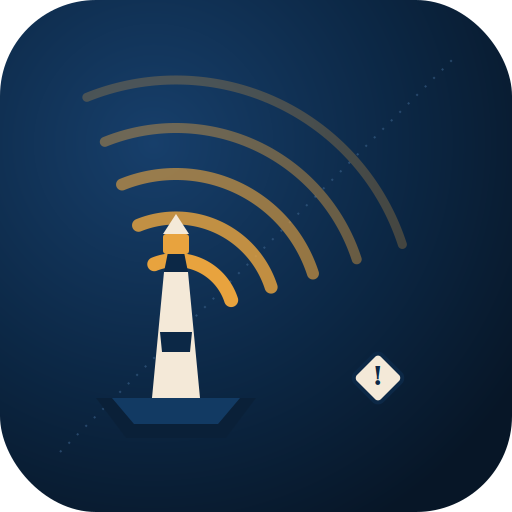
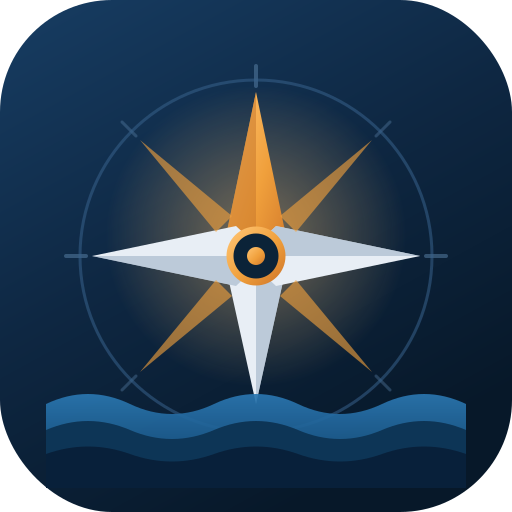
Add files via upload

diff --git a/bot/handlers/start.py b/bot/handlers/start.py
@@ -12,33 +12,45 @@ from ..services.db import Database
 
 logger = logging.getLogger(__name__)
 
-WELCOME = """Привет! Это бот-монитор навигационных предупреждений (NAVAREA/NAVTEX) для моряков.
+WELCOME = """⚓ <b>Watchkeeper</b> — инструменты вахтенного помощника.
 
-Что умеет:
-• следить за выбранными районами NAVAREA и присылать новые предупреждения
-• показывать список действующих предупреждений по команде
-• отвечать на вопросы по судовождению (спроси что угодно текстом)
-• разбирать текст конкретного предупреждения простым языком
+<b>Предупреждения</b>
+Слежу за районами NAVAREA и береговыми предупреждениями, присылаю новые сразу, показываю район на карте контуром, а не точкой.
 
-Важно: бот берёт данные с открытых сайтов официальных координаторов NAVAREA \
-(NGA, UKHO и так далее) и не заменяет получение MSI через штатное оборудование \
-GMDSS/NAVTEX на судне. Это вспомогательный инструмент, а не источник для \
-официального подтверждения безопасности перехода.
+<b>Расчёты мостика</b>
+Расстояние и курс, ETA, запас воды под килём, проседание, CPA/TCPA, точка перекладки руля, якорная стоянка, дифферент, восход и сумерки. Работают без связи — в рейсе это важно.
 
-С чего начать -- /areas, чтобы выбрать районы."""
+<b>Радио</b>
+Станции MF/HF DSC для теста, с отметкой, от каких реально приходит подтверждение.
 
-HELP = """Команды:
+<b>Переход</b>
+Вводишь порты — показываю, какие предупреждения попадают в коридор вдоль маршрута и на каком расстоянии от курса.
 
-/app -- открыть приложение (карта, статистика, планирование рейса)
-/areas -- выбрать районы NAVAREA для отслеживания
-/sources -- официальный источник по каждому из 21 района NAVAREA
-/active -- действующие предупреждения по твоим районам
-/status -- тариф, районы, лимиты
-/subscribe -- оформить Premium
-/cancel_subscription -- отключить автопродление Premium
+Всё это удобнее в приложении — кнопка слева от поля ввода или /app.
 
-Просто напиши текстом вопрос по судовождению, погоде, MSI и так далее -- отвечу через Claude."""
+Важно: данные справочные. Официальный источник — штатное оборудование GMDSS/NAVTEX, ECDIS и судовые пособия. Решение принимает судоводитель."""
 
+HELP = """<b>Watchkeeper</b> — что умеет:
+
+<b>Приложение</b>
+/app — открыть целиком: карта, расчёты, радио, переход
+/tools — сразу к расчётам мостика
+/radio — станции MF/HF DSC для теста
+/voyage — проверить маршрут между портами
+/chart — карта предупреждений
+
+<b>Предупреждения</b>
+/areas — выбрать районы для отслеживания
+/active — что действует сейчас
+/sources — откуда берутся данные по каждому району
+/explain — разобрать текст предупреждения простым языком
+
+<b>Прочее</b>
+/status — тариф, районы, лимиты
+/subscribe — оформить Premium
+/cancel_subscription — отключить автопродление
+
+Можно просто написать вопрос текстом — отвечу по судовождению, погоде, формальностям."""
 
 async def cmd_start(update: Update, context: ContextTypes.DEFAULT_TYPE) -> None:
     db: Database = context.bot_data["db"]
@@ -62,11 +74,11 @@ async def cmd_start(update: Update, context: ContextTypes.DEFAULT_TYPE) -> None:
         except Exception:
             logger.exception("Не удалось поставить кнопку Mini App для чата %s", update.effective_chat.id)
 
-    await update.message.reply_text(WELCOME)
+    await update.message.reply_text(WELCOME, parse_mode="HTML")
 
 
 async def cmd_help(update: Update, context: ContextTypes.DEFAULT_TYPE) -> None:
-    await update.message.reply_text(HELP)
+    await update.message.reply_text(HELP, parse_mode="HTML")
 
 
 async def cmd_status(update: Update, context: ContextTypes.DEFAULT_TYPE) -> None:
@@ -116,3 +128,48 @@ async def cmd_app(update: Update, context: ContextTypes.DEFAULT_TYPE) -> None:
         "Панель, карта, поиск и планирование перехода:",
         reply_markup=keyboard,
     )
+
+
+# Команды, открывающие приложение сразу на нужной вкладке. Вкладка
+# передаётся через якорь в адресе (#tools и так далее), приложение читает
+# его при запуске -- см. miniapp.py.
+_APP_TABS = {
+    "tools": ("Расчёты мостика", "Расстояние и курс, UKC, проседание, CPA/TCPA, якорь, дифферент и остальное. Работает без связи."),
+    "radio": ("Станции MF/HF DSC", "Кому слать тест и от кого реально придёт подтверждение."),
+    "voy": ("Проверка перехода", "Какие предупреждения попадают в коридор вдоль маршрута."),
+    "map": ("Карта предупреждений", "Все действующие районы контурами, с подложками и слоями."),
+}
+
+
+async def _open_tab(update: Update, context: ContextTypes.DEFAULT_TYPE, tab: str) -> None:
+    from telegram import InlineKeyboardButton, InlineKeyboardMarkup, WebAppInfo
+
+    title, desc = _APP_TABS[tab]
+    if not config.public_url:
+        await update.message.reply_text(
+            "Приложение пока недоступно: у бота нет публичного адреса. "
+            "На Render он подставляется сам, на своём сервере нужно задать PUBLIC_URL в .env."
+        )
+        return
+
+    keyboard = InlineKeyboardMarkup([[
+        InlineKeyboardButton(f"Открыть · {title}",
+                             web_app=WebAppInfo(url=f"{config.public_url}/app#{tab}"))
+    ]])
+    await update.message.reply_text(f"<b>{title}</b>\n{desc}", parse_mode="HTML", reply_markup=keyboard)
+
+
+async def cmd_tools(update: Update, context: ContextTypes.DEFAULT_TYPE) -> None:
+    await _open_tab(update, context, "tools")
+
+
+async def cmd_radio(update: Update, context: ContextTypes.DEFAULT_TYPE) -> None:
+    await _open_tab(update, context, "radio")
+
+
+async def cmd_voyage(update: Update, context: ContextTypes.DEFAULT_TYPE) -> None:
+    await _open_tab(update, context, "voy")
+
+
+async def cmd_chart(update: Update, context: ContextTypes.DEFAULT_TYPE) -> None:
+    await _open_tab(update, context, "map")

diff --git a/bot/miniapp.py b/bot/miniapp.py
@@ -21,7 +21,7 @@ MINI_APP_HTML = r"""<!DOCTYPE html>
 <head>
 <meta charset="utf-8">
 <meta name="viewport" content="width=device-width, initial-scale=1, maximum-scale=1, user-scalable=no, viewport-fit=cover">
-<title>NAVAREA Monitor</title>
+<title>Watchkeeper</title>
 <script src="https://telegram.org/js/telegram-web-app.js"></script>
 <link rel="stylesheet" href="https://unpkg.com/leaflet@1.9.4/dist/leaflet.css"/>
 <style>
@@ -587,8 +587,8 @@ select.tinput{background-image:linear-gradient(45deg,transparent 50%,var(--muted
 
   <div class="hdr">
     <div style="min-width:0">
-      <div class="hello">Спокойной вахты</div>
-      <div class="h1">Обстановка <span id="hName">в море</span></div>
+      <div class="hello" id="hello">Спокойной вахты</div>
+      <div class="h1">Watch<span>keeper</span></div>
     </div>
     <div class="avatar" id="themeBtn"><b id="liveDot"></b></div>
   </div>
@@ -1810,7 +1810,7 @@ function renderDash(){
   if(!S.stats) return;
   const t=S.stats.totals;
   const num=$('#heroNum'); if(num) countUp(num,t.in_force);
-  $('#hName').textContent=S.offline?'из кэша':'в море';
+  const hl=$('#hello'); if(hl) hl.textContent=S.offline?'Данные из кэша':'Инструменты вахтенного помощника';
 
   const cells=[
     {v:t.in_force,k:'Действует',c:'a'},
@@ -2759,6 +2759,10 @@ document.querySelectorAll('.tab[data-i]').forEach(t=>
   t.insertAdjacentHTML('afterbegin', ico(t.dataset.i)));
 document.querySelectorAll('#corr .cat').forEach((c,i)=>
   c.insertAdjacentHTML('afterbegin', ico(['gauge','gauge','wave','compass'][i]||'gauge')));
+
+/* открыть сразу нужную вкладку, если пришли по ссылке вида /app#tools */
+const wantTab=(location.hash||'').replace('#','');
+if(['dash','areas','map','tools','radio','voy'].includes(wantTab)) switchView(wantTab);
 
 if(loadCache())render();
 load(false);

diff --git a/bot/main.py b/bot/main.py
@@ -102,6 +102,10 @@ def build_application() -> Application:
     application.add_handler(CommandHandler("start", start.cmd_start))
     application.add_handler(CommandHandler("help", start.cmd_help))
     application.add_handler(CommandHandler("app", start.cmd_app))
+    application.add_handler(CommandHandler("tools", start.cmd_tools))
+    application.add_handler(CommandHandler("radio", start.cmd_radio))
+    application.add_handler(CommandHandler("voyage", start.cmd_voyage))
+    application.add_handler(CommandHandler("chart", start.cmd_chart))
     application.add_handler(CommandHandler("status", start.cmd_status))
     application.add_handler(CommandHandler("areas", areas.cmd_areas))
     application.add_handler(CommandHandler("sources", areas.cmd_sources))

diff --git a/README.md b/README.md
@@ -1,6 +1,6 @@
-# NAVAREA Bot
+# Watchkeeper
 
-Telegram-бот для моряков. Следит за навигационными предупреждениями NAVAREA/NAVTEX по выбранным районам, присылает новые прямо в чат, отвечает на вопросы по судовождению через Claude, разбирает текст конкретного предупреждения простым языком. Есть бесплатный тариф и платная подписка на 3$/месяц через Telegram Stars.
+Telegram-бот и приложение для вахтенного помощника. Следит за навигационными предупреждениями NAVAREA и береговыми, показывает районы на карте, считает всё нужное на мостике и подсказывает, на какую радиостанцию слать тест MF/HF DSC. Есть бесплатный тариф и платная подписка через Telegram Stars.
 
 Этот файл — гайд с нуля. Рассчитан на то, что ты не касался кода вообще. Если что-то будет непонятно по ходу, спрашивай, дальше разберёмся.
 
@@ -286,21 +286,46 @@ sudo systemctl status navarea-bot
 
 ## Шаг 9. Настроить внешний вид бота
 
-Снова в чате с @BotFather:
+Всё это в чате с @BotFather.
 
-- `/setcommands` → выбери своего бота → пришли список:
+**Имя:** `/setname` → выбери бота → впиши:
 ```
-start - начать
-help - список команд
+Watchkeeper
+```
+
+**Короткое описание** (видно на карточке бота): `/setabouttext` →
+```
+Инструменты вахтенного помощника: предупреждения NAVAREA, расчёты мостика, станции MF/HF DSC, проверка перехода.
+```
+
+**Полное описание** (видно до нажатия «Начать»): `/setdescription` →
+```
+Watchkeeper — рабочий инструмент вахтенного помощника.
+
+• Предупреждения NAVAREA и береговые: новые приходят сразу, район показан на карте контуром
+• Расчёты мостика: расстояние и курс, ETA, UKC, проседание, CPA/TCPA, точка перекладки руля, якорная стоянка, дифферент, восход и сумерки — работают без связи
+• Станции MF/HF DSC с отметкой, от каких реально приходит подтверждение
+• Проверка перехода: какие предупреждения попадают в коридор вдоль маршрута
+
+Данные справочные. Официальный источник — оборудование GMDSS/NAVTEX, ECDIS и судовые пособия.
+```
+
+**Аватарка:** `/setuserpic` → пришли `assets/emblem.png` из проекта.
+
+**Команды:** `/setcommands` → пришли одним сообщением:
+```
+app - открыть приложение
+tools - расчёты мостика
+chart - карта предупреждений
+radio - станции MF/HF DSC
+voyage - проверить маршрут
 areas - выбрать районы NAVAREA
-sources - источники по всем районам
 active - действующие предупреждения
+sources - источники данных
 status - тариф и лимиты
 subscribe - оформить Premium
-cancel_subscription - отключить автопродление
+help - все команды
 ```
-- `/setuserpic` → выбери бота → пришли `assets/emblem.png` из проекта (просто перетащи файл в чат с BotFather)
-- `/setdescription` → выбери бота → впиши короткое описание, например "Слежу за NAVAREA/NAVTEX и отвечаю на вопросы по судовождению"
 
 ## Проверка что всё работает
 
